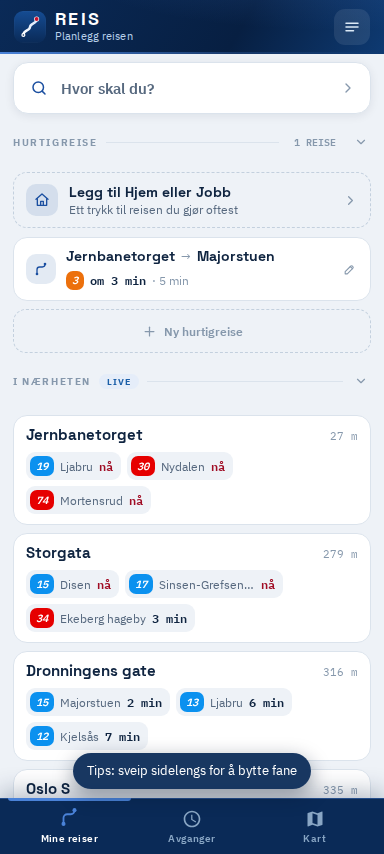
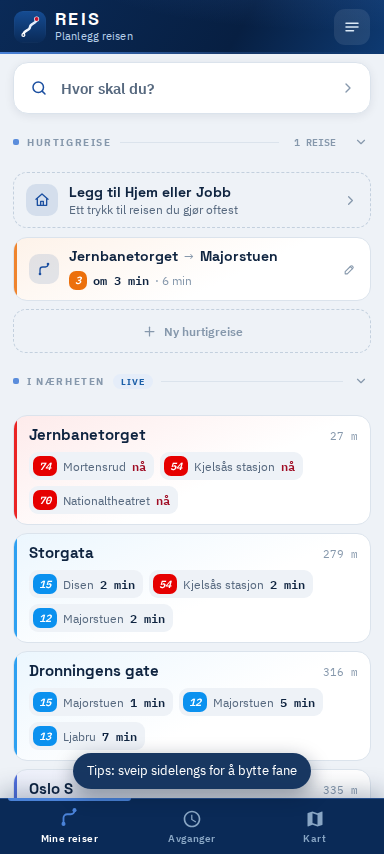
Add files via upload

diff --git a/index.html b/index.html
@@ -206,9 +206,15 @@ a{color:inherit}
 .ca-arr svg{width:15px;height:15px;display:block}
 :root[data-theme="dark"] .ca-ic{color:var(--tab-2)}
 .comm-cell{position:relative;display:flex}
-.comm-btn{flex:1;min-width:0;min-height:92px;display:flex;flex-direction:column;text-align:left;
-  border:1.5px solid var(--line);border-radius:15px;padding:10px 11px;background:var(--card);
+/* Kortene var alle like mørkeblå. Nå henter hvert kort en anelse av linjens
+   egen farge – nok til å skille dem fra hverandre, ikke nok til å skrike. */
+.comm-btn{position:relative;flex:1;min-width:0;min-height:92px;display:flex;flex-direction:column;text-align:left;
+  border:1.5px solid var(--line);border-radius:15px;padding:10px 11px;overflow:hidden;
+  background:linear-gradient(155deg,color-mix(in srgb,var(--ac,transparent) 9%,var(--card)),var(--card) 62%);
   transition:transform .18s cubic-bezier(.34,1.56,.64,1),box-shadow .2s,border-color .2s}
+.comm-btn::before{content:"";position:absolute;left:0;top:0;bottom:0;width:3px;
+  background:var(--ac,var(--line-2));opacity:.85}
+.comm-btn.empty::before{opacity:.25}
 .comm-btn:active{transform:scale(.97)}
 .comm-btn:hover{box-shadow:var(--sh-1);border-color:var(--line-2)}
 .cb-top{display:flex;align-items:center;gap:7px;font-size:11px;font-weight:700;letter-spacing:.1em;text-transform:uppercase;color:var(--faint)}
@@ -958,6 +964,13 @@ a{color:inherit}
 /* Ledeteksten skjules bare der posisjonsknappen faktisk står. */
 .stop-field.empty:not(:focus-within):has(.sc-pos:not([hidden])) input::placeholder{color:transparent}
 
+.qt-card::before,.near-card::before{content:"";position:absolute;left:0;top:0;bottom:0;width:3px;
+  background:var(--ac,var(--line-2));opacity:.85}
+
+/* Overskriftene fikk en farget markør, så øyet finner seksjonene raskere */
+.sec-label>span:first-child::before{content:"";display:inline-block;width:6px;height:6px;border-radius:2px;
+  background:var(--tab-2);margin-right:8px;vertical-align:1px;opacity:.9}
+
 /* ---------- sammenleggbare seksjoner ---------- */
 .sec-label.toggle{width:100%;cursor:pointer;user-select:none;min-height:44px;margin:6px 0 4px}
 .sec-label.toggle::after{display:none}
@@ -987,8 +1000,9 @@ a{color:inherit}
 /* ---------- hurtigreiser (fra A til B) ---------- */
 #quickTrips{display:flex;flex-direction:column;gap:8px;margin-top:9px}
 .qt-cell{position:relative;display:flex}
-.qt-card{flex:1;min-width:0;display:flex;align-items:center;gap:10px;text-align:left;
-  background:var(--card);border:1.5px solid var(--line);border-radius:14px;padding:10px 40px 10px 12px;
+.qt-card{position:relative;flex:1;min-width:0;display:flex;align-items:center;gap:10px;text-align:left;overflow:hidden;
+  background:linear-gradient(155deg,color-mix(in srgb,var(--ac,transparent) 9%,var(--card)),var(--card) 62%);
+  border:1.5px solid var(--line);border-radius:14px;padding:10px 40px 10px 15px;
   transition:transform .18s cubic-bezier(.34,1.56,.64,1),box-shadow .2s,border-color .2s;
   animation:rowIn .32s cubic-bezier(.22,1,.36,1) both}
 .qt-card:active{transform:scale(.98)}
@@ -1027,8 +1041,9 @@ a{color:inherit}
 
 /* ---------- «I nærheten» ---------- */
 #nearbyWrap{padding-bottom:6px}
-.near-card{display:block;width:100%;text-align:left;background:var(--card);border:1.5px solid var(--line);
-  border-radius:14px;padding:10px 12px;margin-top:8px;
+.near-card{position:relative;display:block;width:100%;text-align:left;overflow:hidden;
+  background:linear-gradient(155deg,color-mix(in srgb,var(--ac,transparent) 8%,var(--card)),var(--card) 58%);
+  border:1.5px solid var(--line);border-radius:14px;padding:10px 12px 10px 15px;margin-top:8px;
   transition:transform .18s cubic-bezier(.34,1.56,.64,1),box-shadow .2s,border-color .2s;
   animation:rowIn .34s cubic-bezier(.22,1,.36,1) both}
 .near-card:active{transform:scale(.98)}
@@ -1824,7 +1839,7 @@ if(matchMedia('(prefers-color-scheme: dark)').addEventListener)matchMedia('(pref
    allerede åpen side beholder gammel HTML og JS selv om en ny service worker
    er installert. Nå oppdages det, og du får velge når. */
 /* Denne må holdes lik VERSION i sw.js. Byggeskriptet sjekker at de stemmer. */
-const APP_VERSION='v7.1.0';
+const APP_VERSION='v7.2.0';
 let swReg=null,waitingSW=null,reloading=false,byttetSelv=false;
 
 /* Service worker-livssyklusen er lunefull: en ny versjon kan bli hengende i
@@ -2977,6 +2992,9 @@ async function updateCommuterLive(){
       const next=calls.find(c=>!c.cancelled&&c.t-now()>-60000);
       if(!next){slot.innerHTML=`<span style="color:var(--faint)">Ingen avganger nå</span>`;continue}
       const mm=MODE[next.mode]||MODE.bus;const diffMin=(next.t-Date.now())/60000;const pc=paceFor(diffMin);
+      /* Kortet får fargen til linjen som faktisk går nå. */
+      const kort=slot.closest('.comm-btn');
+      if(kort)kort.style.setProperty('--ac',next.colour?'#'+next.colour:mm.hex);
       slot.innerHTML=`<span class="leg-badge" style="background:${mm.hex}">${esc(next.code)}</span> ${relMin(next.t-now())} <span class="pace ${pc.cls}">${pc.ic}${pc.txt}</span>`;
     }catch(e){slot.innerHTML=`<span style="color:var(--faint)">—</span>`}
   }
@@ -2999,7 +3017,10 @@ function nearbyCardHTML(s2,i){
     return `<span class="nc-line"><i class="leg-badge" style="background:${esc(hex)}">${esc(c.code)}</i>
       <span class="nc-dest">${esc(c.dest)}</span><span class="nc-when${diff<=45000?' due':''}">${when}</span></span>`;
   }).join('');
-  return `<button class="near-card" data-i="${i}" style="animation-delay:${Math.min(i*50,200)}ms">
+  /* Aksenten hentes fra første avgang – kortet får linjens egen farge. */
+  const f=(s2.calls||[])[0];
+  const ac=f?(f.colour?'#'+f.colour:((MODE[f.mode]||MODE.bus).hex)):'';
+  return `<button style="${ac?`--ac:${esc(ac)}`:''}" class="near-card" data-i="${i}" style="animation-delay:${Math.min(i*50,200)}ms">
     <div class="nc-top"><b>${esc(s2.name)}</b><span>${Math.round(s2.dist)} m</span></div>
     <div class="nc-lines">${calls||'<span class="nc-dest">Ingen avganger den neste timen</span>'}</div>
   </button>`;
@@ -3089,6 +3110,20 @@ function initSections(){
   });
 }
 /* Tellere på lukkede seksjoner, så du ser hva som ligger der uten å åpne */
+/* En seksjon uten innhold er bare en overskrift over ingenting. Skjul den helt
+   – da ser skjermen bevisst ut i stedet for halvferdig. */
+function skjulTommeSeksjoner(){
+  const tellere={recents:'#recents'};
+  Object.entries(tellere).forEach(([navn,sel])=>{
+    const sec=document.querySelector(`.sec[data-sec="${navn}"]`);
+    const boks=$(sel);
+    if(!sec||!boks)return;
+    /* «I nærheten» skal alltid stå – den har en egen tom-tilstand med knapp. */
+    if(navn==='nearby')return;
+    const tomt=!boks.children.length;
+    sec.hidden=tomt;
+  });
+}
 function updateSecCounts(){
   const q=$('#quickCount');
   if(q){const n=quickTrips().length;q.hidden=!n;q.textContent=n+(n===1?' reise':' reiser')}
@@ -3155,8 +3190,11 @@ function renderQuickTrips(){
       liveHTML=`${badges||''}<span class="qt-when${diff<=45000?' due':''}">${when}</span>`+
                `<span style="color:var(--faint)">· ${fmtDur(live.dur)}</span>`;
     }
+    /* Aksentfargen kommer fra første kollektivetappe i den faktiske reisen. */
+    const f0=live&&live.legs&&live.legs.find(l=>l.mode!=='foot');
+    const ac=f0?(f0.colour?'#'+f0.colour:((MODE[f0.mode]||MODE.bus).hex)):'';
     return `<div class="qt-cell">
-      <button class="qt-card" data-i="${i}" style="animation-delay:${Math.min(i*45,180)}ms"
+      <button class="qt-card" data-i="${i}" style="animation-delay:${Math.min(i*45,180)}ms;${ac?`--ac:${esc(ac)}`:''}"
               aria-label="Reis fra ${esc(x.from.n)} til ${esc(x.to.n)}">
         <span class="qt-ic">${IC.route}</span>
         <span class="qt-body">
@@ -5190,6 +5228,7 @@ function pushRecent(from,to,vias){
   let r=loadLS('recents',[]);r=[item,...r.filter(x=>!(x.from.n===item.from.n&&x.to.n===item.to.n))].slice(0,5);saveLS('recents',r);renderRecents();
 }
 function renderRecents(){
+  setTimeout(skjulTommeSeksjoner,0);
   const r=loadLS('recents',[]);if(!r.length){$('#recentsWrap').hidden=true;return}
   $('#recentsWrap').hidden=false;
   $('#recents').innerHTML=r.map((x,i)=>`<button class="recent-chip" data-i="${i}">${IC.clock}${esc(x.from.n)} → ${esc(x.to.n)}</button>`).join('');

diff --git a/sw.js b/sw.js
@@ -5,7 +5,7 @@
      kartfliser → cache-first med tak på antall fliser
      API-er     → network-first med cachet fallback (tunnel/dårlig dekning)
 */
-const VERSION = 'v7.1.0';
+const VERSION = 'v7.2.0';
 const SHELL_CACHE = `reis-shell-${VERSION}`;
 const TILE_CACHE = `reis-tiles-${VERSION}`;
 const DATA_CACHE = `reis-data-${VERSION}`;

diff --git a/ENDRINGER.md b/ENDRINGER.md
@@ -2,7 +2,7 @@
 
 Alt under er verifisert mot Entur live 31. juli 2026, ikke gjettet.
 `node test-live.js` kjører appens egne spørringer mot API-et (15 tester),
-`node test-dom.js` tester grensesnitt og logikk i jsdom (273 tester),
+`node test-dom.js` tester grensesnitt og logikk i jsdom (277 tester),
 `python3 shot.py`, `measure.py`, `swipe_test.py`, `fill_test.py`, `qt_test.py`,
 `sec_test.py`, `overlap_test.py`, `perf_test.py`, `font_test.py`, `a11y.py` og
 `polish_test.py`, `plan_test.py`, `soak.py`, `regress_map.py` og `update_test.py`
@@ -164,6 +164,34 @@ Nå:
 
 Testen booter appen i jsdom **uten** Leaflet i det hele tatt og bekrefter at den
 starter, at Plan-fanen tegnes, og at alle kartfunksjonene har vakt.
+
+---
+
+## Visuelt løft på «Mine reiser»
+
+To ting gjorde skjermen kjedelig, og bare det ene var farger.
+
+**Tomme overskrifter over ingenting.** «Nylige» uten nylige søk tegnet bare en
+strek og en tittel, og etterlot et hull. Seksjoner uten innhold skjules nå helt –
+da ser skjermen bevisst ut i stedet for halvferdig. «I nærheten» er unntaket:
+den har en egen tom-tilstand med knapp for å slå på posisjon.
+
+**Alle kortene var samme mørkeblå.** Nå henter hvert kort **linjens egen farge**:
+
+- Hjem/Jobb får fargen til linjen som faktisk går nå
+- Hurtigreiser får fargen fra første kollektivetappe i reisen
+- Nærhetskort får fargen fra første avgang
+
+Fargen brukes som en 3 px stripe i kanten og en svak toning (8–9 %) i
+bakgrunnen. Nok til å skille kortene fra hverandre, ikke nok til å ta over.
+Seksjonsoverskriftene har fått en liten farget markør, så øyet finner dem raskere.
+
+> **Målt at det fortsatt er lesbart.** Toning bak tekst er lett å ta for langt.
+> `getComputedStyle` sier ingenting her – en gradient er et bakgrunns*bilde*, så
+> `backgroundColor` er gjennomsiktig. Kontrasten er derfor målt på faktiske
+> piksler fra et skjermbilde: **14,5:1 i lys modus, 12,5:1 i mørk.** Kravet er 4,5:1.
+
+Målt på Oslo S: fire nærhetskort med **tre forskjellige** farger.
 
 ---
 
